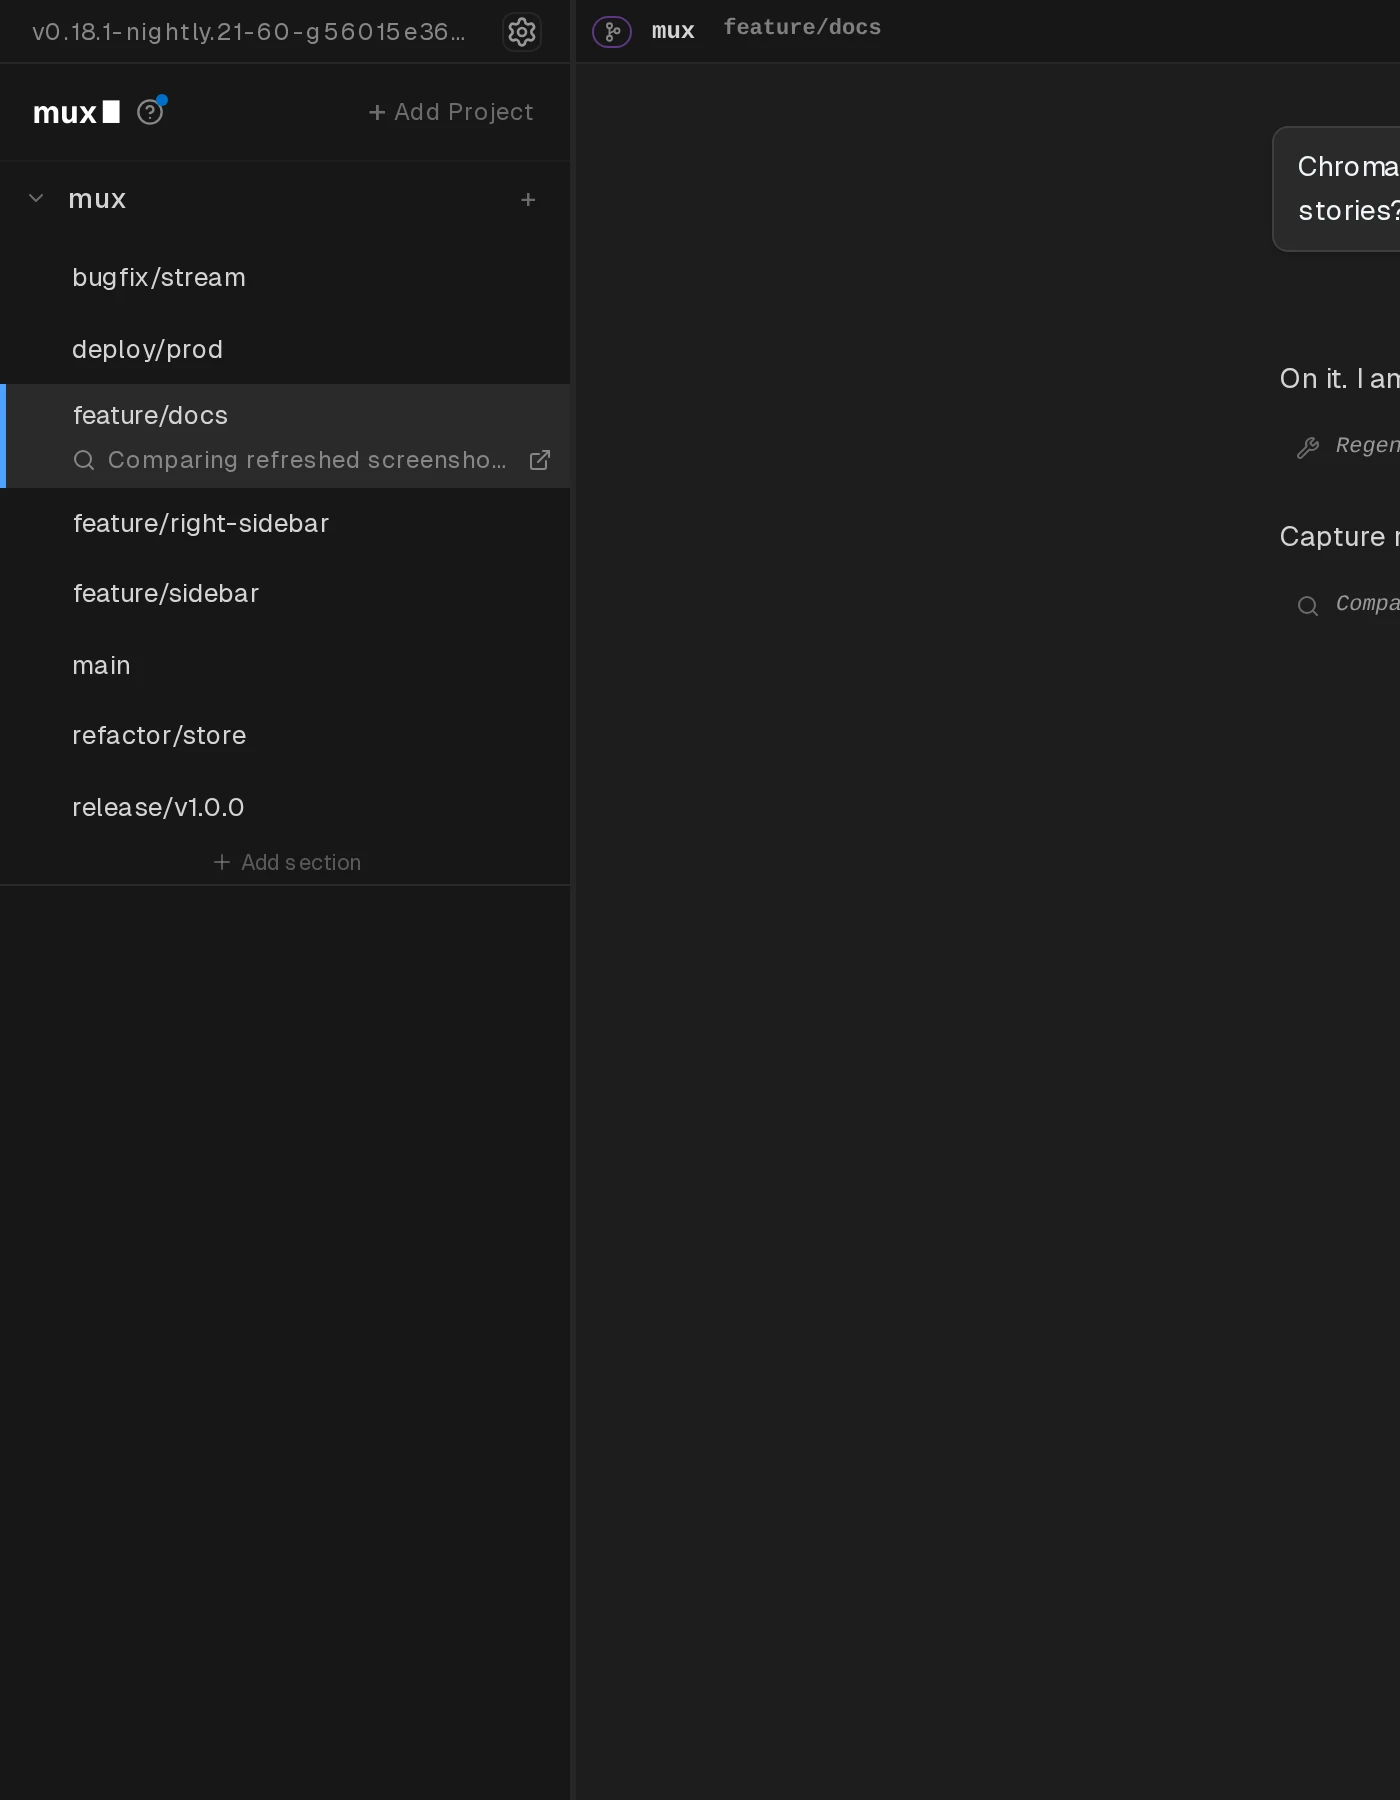
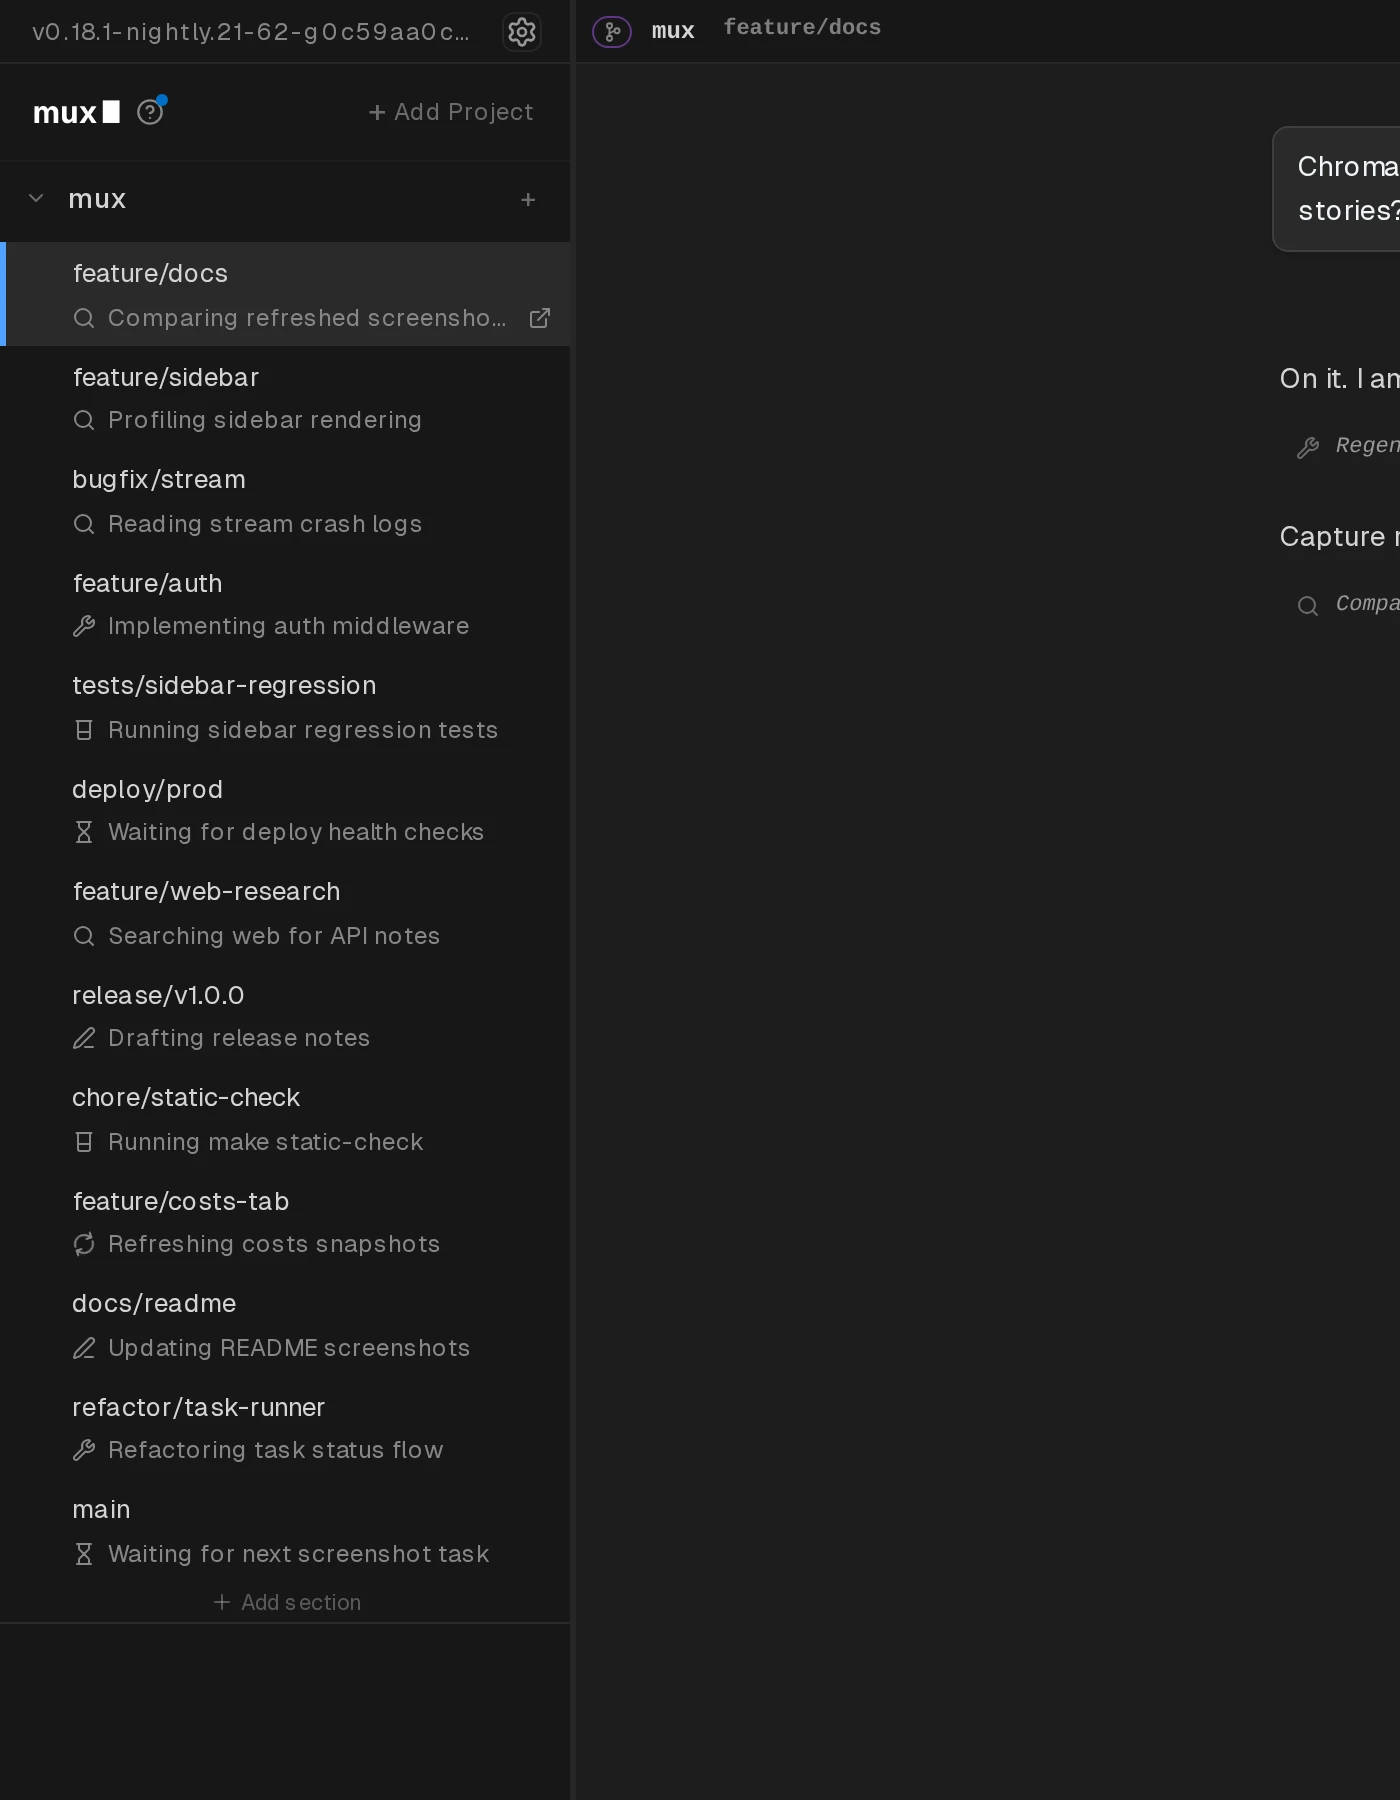
🤖 tests: tighten auto framing and restore dense status screenshot
Refine README screenshot composition for Auto workspace creation and ensure the status sidebar screenshot consistently shows many active examples.

- tighten AutoModeAgentSwitching crop so the creation card is the primary focus
- seed persisted statusState for all status fixtures so every sidebar row renders status indicators
- regenerate auto-mode.webp and agent-status.webp

---

_Generated with `mux` • Model: `openai:gpt-5.3-codex` • Thinking: `xhigh` • Cost: `$173.48`_

<!-- mux-attribution: model=openai:gpt-5.3-codex thinking=xhigh costs=173.48 -->

diff --git a/src/browser/stories/App.readmeScreenshots.stories.tsx b/src/browser/stories/App.readmeScreenshots.stories.tsx
@@ -42,6 +42,7 @@ import {
   getModelKey,
   getProjectScopeId,
   getRightSidebarLayoutKey,
+  getStatusStateKey,
   getThinkingLevelKey,
 } from "@/common/constants/storage";
 
@@ -496,61 +497,144 @@ export const AgentStatusSidebar: AppStory = {
         // This screenshot should explicitly show the expanded projects sidebar.
         window.localStorage.setItem(LEFT_SIDEBAR_COLLAPSED_KEY, JSON.stringify(false));
 
-        const workspaces = [
-          createWorkspace({
+        const workspaceFixtures = [
+          {
             id: "ws-status-1",
             name: "feature/docs",
-            projectName: README_PROJECT_NAME,
-            projectPath: README_PROJECT_PATH,
-          }),
-          createWorkspace({
+            assistantText:
+              "Capture run is active. I widened the viewport and I am checking the git divergence + agent status stories for regressions.",
+            statusEmoji: "🔍",
+            statusMessage: "Comparing refreshed screenshots",
+            statusUrl: "https://github.com/coder/mux/pull/2035",
+          },
+          {
             id: "ws-status-2",
             name: "feature/sidebar",
-            projectName: README_PROJECT_NAME,
-            projectPath: README_PROJECT_PATH,
-          }),
-          createWorkspace({
+            assistantText: "Profiling workspace row rendering and hover interactions.",
+            statusEmoji: "🔍",
+            statusMessage: "Profiling sidebar rendering",
+          },
+          {
             id: "ws-status-3",
             name: "bugfix/stream",
-            projectName: README_PROJECT_NAME,
-            projectPath: README_PROJECT_PATH,
-          }),
-          createWorkspace({
+            assistantText: "Collecting crash traces from interrupted stream retries.",
+            statusEmoji: "🔍",
+            statusMessage: "Reading stream crash logs",
+          },
+          {
             id: "ws-status-4",
-            name: "refactor/store",
-            projectName: README_PROJECT_NAME,
-            projectPath: README_PROJECT_PATH,
-          }),
-          createWorkspace({
+            name: "feature/auth",
+            assistantText: "Wiring shared auth checks into task launch paths.",
+            statusEmoji: "🔧",
+            statusMessage: "Implementing auth middleware",
+          },
+          {
             id: "ws-status-5",
-            name: "feature/right-sidebar",
-            projectName: README_PROJECT_NAME,
-            projectPath: README_PROJECT_PATH,
-          }),
-          createSSHWorkspace({
+            name: "tests/sidebar-regression",
+            assistantText: "Expanding status indicator coverage with visual assertions.",
+            statusEmoji: "🧪",
+            statusMessage: "Running sidebar regression tests",
+          },
+          {
             id: "ws-status-ssh",
             name: "deploy/prod",
-            projectName: README_PROJECT_NAME,
-            projectPath: README_PROJECT_PATH,
+            runtime: "ssh" as const,
             host: "prod.example.com",
-          }),
-          createWorkspace({
+            assistantText: "Deploying staged patch to production canary nodes.",
+            statusEmoji: "⏳",
+            statusMessage: "Waiting for deploy health checks",
+          },
+          {
             id: "ws-status-6",
-            name: "release/v1.0.0",
-            projectName: README_PROJECT_NAME,
-            projectPath: README_PROJECT_PATH,
-          }),
-          createWorkspace({
+            name: "feature/web-research",
+            assistantText: "Comparing provider docs for tool schema strictness changes.",
+            statusEmoji: "🔍",
+            statusMessage: "Searching web for API notes",
+          },
+          {
             id: "ws-status-7",
+            name: "release/v1.0.0",
+            assistantText: "Preparing release summary for this screenshot refresh.",
+            statusEmoji: "📝",
+            statusMessage: "Drafting release notes",
+          },
+          {
+            id: "ws-status-8",
+            name: "chore/static-check",
+            assistantText: "Running formatter + static checks before posting updates.",
+            statusEmoji: "🧪",
+            statusMessage: "Running make static-check",
+          },
+          {
+            id: "ws-status-9",
+            name: "feature/costs-tab",
+            assistantText: "Comparing token breakdown rows across models.",
+            statusEmoji: "🔄",
+            statusMessage: "Refreshing costs snapshots",
+          },
+          {
+            id: "ws-status-10",
+            name: "docs/readme",
+            assistantText: "Regenerating docs assets and linking updated images.",
+            statusEmoji: "📝",
+            statusMessage: "Updating README screenshots",
+          },
+          {
+            id: "ws-status-11",
+            name: "refactor/task-runner",
+            assistantText: "Splitting task lifecycle updates into smaller reducers.",
+            statusEmoji: "🔧",
+            statusMessage: "Refactoring task status flow",
+          },
+          {
+            id: "ws-status-12",
             name: "main",
+            assistantText: "Monitoring queue health while waiting for follow-up tasks.",
+            statusEmoji: "⏳",
+            statusMessage: "Waiting for next screenshot task",
+          },
+        ];
+
+        // Seed persisted statusState for every workspace so the sidebar can show
+        // many status examples without requiring each workspace's onChat stream
+        // to be actively subscribed.
+        for (const fixture of workspaceFixtures) {
+          window.localStorage.setItem(
+            getStatusStateKey(fixture.id),
+            JSON.stringify({
+              emoji: fixture.statusEmoji,
+              message: fixture.statusMessage,
+              ...(fixture.statusUrl ? { url: fixture.statusUrl } : {}),
+            })
+          );
+        }
+
+        const workspaces = workspaceFixtures.map((fixture, index) => {
+          const createdAt = new Date(NOW - (index + 1) * 60_000).toISOString();
+          if (fixture.runtime === "ssh") {
+            return createSSHWorkspace({
+              id: fixture.id,
+              name: fixture.name,
+              projectName: README_PROJECT_NAME,
+              projectPath: README_PROJECT_PATH,
+              host: fixture.host,
+              createdAt,
+            });
+          }
+          return createWorkspace({
+            id: fixture.id,
+            name: fixture.name,
             projectName: README_PROJECT_NAME,
             projectPath: README_PROJECT_PATH,
-          }),
-        ];
+            createdAt,
+          });
+        });
+
+        const primaryWorkspace = workspaceFixtures[0];
 
         const chatHandlers = new Map([
           [
-            "ws-status-1",
+            primaryWorkspace.id,
             createStaticChatHandler([
               createUserMessage(
                 "msg-1",
@@ -568,114 +652,43 @@ export const AgentStatusSidebar: AppStory = {
                     "call-1",
                     "🔧",
                     "Regenerating README screenshots and validating Chromatic diffs",
-                    "https://github.com/coder/mux/pull/2035"
+                    primaryWorkspace.statusUrl
                   ),
                 ],
               }),
-              createAssistantMessage(
-                "msg-3",
-                "Capture run is active. I widened the viewport and I am checking the git divergence + agent status stories for regressions.",
-                {
-                  historySequence: 3,
-                  timestamp: STABLE_TIMESTAMP - 100_000,
-                  toolCalls: [
-                    createStatusTool(
-                      "call-2",
-                      "🔍",
-                      "Comparing refreshed screenshots against Chromatic baseline"
-                    ),
-                  ],
-                }
-              ),
-            ]),
-          ],
-          [
-            "ws-status-2",
-            createStaticChatHandler([
-              createAssistantMessage("msg-1", "Tuning sidebar virtualization.", {
-                historySequence: 1,
-                timestamp: STABLE_TIMESTAMP - 95_000,
-                toolCalls: [createStatusTool("call-1", "🔍", "Reviewing perf regressions")],
-              }),
-            ]),
-          ],
-          [
-            "ws-status-3",
-            createStaticChatHandler([
-              createAssistantMessage("msg-1", "Investigating stream stalls.", {
-                historySequence: 1,
-                timestamp: STABLE_TIMESTAMP - 90_000,
-                toolCalls: [createStatusTool("call-1", "🧪", "Reproducing with Playwright")],
-              }),
-            ]),
-          ],
-          [
-            "ws-status-4",
-            createStaticChatHandler([
-              createAssistantMessage("msg-1", "Refactoring WorkspaceStore subscriptions.", {
-                historySequence: 1,
-                timestamp: STABLE_TIMESTAMP - 85_000,
-                toolCalls: [createStatusTool("call-1", "🔄", "Cleaning up state")],
-              }),
-            ]),
-          ],
-          [
-            "ws-status-5",
-            createStaticChatHandler([
-              createAssistantMessage("msg-1", "Adding split pane layout fixtures.", {
-                historySequence: 1,
-                timestamp: STABLE_TIMESTAMP - 80_000,
+              createAssistantMessage("msg-3", primaryWorkspace.assistantText, {
+                historySequence: 3,
+                timestamp: STABLE_TIMESTAMP - 100_000,
                 toolCalls: [
                   createStatusTool(
-                    "call-1",
-                    "🚀",
-                    "PR ready for review",
-                    "https://github.com/mux/cmux/pull/1234"
+                    "call-2",
+                    primaryWorkspace.statusEmoji,
+                    primaryWorkspace.statusMessage,
+                    primaryWorkspace.statusUrl
                   ),
                 ],
               }),
             ]),
           ],
-          [
-            "ws-status-ssh",
-            createStaticChatHandler([
-              createAssistantMessage("msg-1", "Deploying staging.", {
-                historySequence: 1,
-                timestamp: STABLE_TIMESTAMP - 70_000,
-                toolCalls: [createStatusTool("call-1", "⏳", "Waiting for CI")],
-              }),
-            ]),
-          ],
-          [
-            "ws-status-6",
-            createStaticChatHandler([
-              createAssistantMessage("msg-1", "Preparing release notes.", {
-                historySequence: 1,
-                timestamp: STABLE_TIMESTAMP - 65_000,
-                toolCalls: [createStatusTool("call-1", "📝", "Drafting changelog")],
-              }),
-            ]),
-          ],
-          [
-            "ws-status-7",
-            createStaticChatHandler([
-              createAssistantMessage(
-                "msg-1",
-                "Monitoring queue health and waiting for follow-up tasks.",
-                {
+          ...workspaceFixtures.slice(1).map((fixture, index) => {
+            return [
+              fixture.id,
+              createStaticChatHandler([
+                createAssistantMessage("msg-1", fixture.assistantText, {
                   historySequence: 1,
-                  timestamp: STABLE_TIMESTAMP - 60_000,
+                  timestamp: STABLE_TIMESTAMP - (95_000 - index * 4_000),
                   toolCalls: [
                     createStatusTool(
                       "call-1",
-                      "⏳",
-                      "Idle: waiting for next screenshot refresh request"
+                      fixture.statusEmoji,
+                      fixture.statusMessage,
+                      fixture.statusUrl
                     ),
                   ],
-                }
-              ),
-            ]),
-          ],
+                }),
+              ]),
+            ] as const;
+          }),
         ]);
 
         expandProjects([README_PROJECT_PATH]);

diff --git a/scripts/capture-readme-screenshots.ts b/scripts/capture-readme-screenshots.ts
@@ -120,8 +120,8 @@ const STORIES: StoryDef[] = [
     exportName: "AutoModeAgentSwitching",
     storyId: `${STORY_ID_PREFIX}auto-mode-agent-switching`,
     outputFile: "auto-mode.webp",
-    // Keep the creation card centered with surrounding context so nothing is cut off.
-    clip: { x: 320, y: 120, width: 1260, height: 900 },
+    // Emphasize the workspace creation card while still keeping the MCP panel context.
+    clip: { x: 390, y: 90, width: 1120, height: 800 },
     playInteraction: async (page: Page) => {
       // Enter project creation view from the sidebar row.
       const projectRow = page
